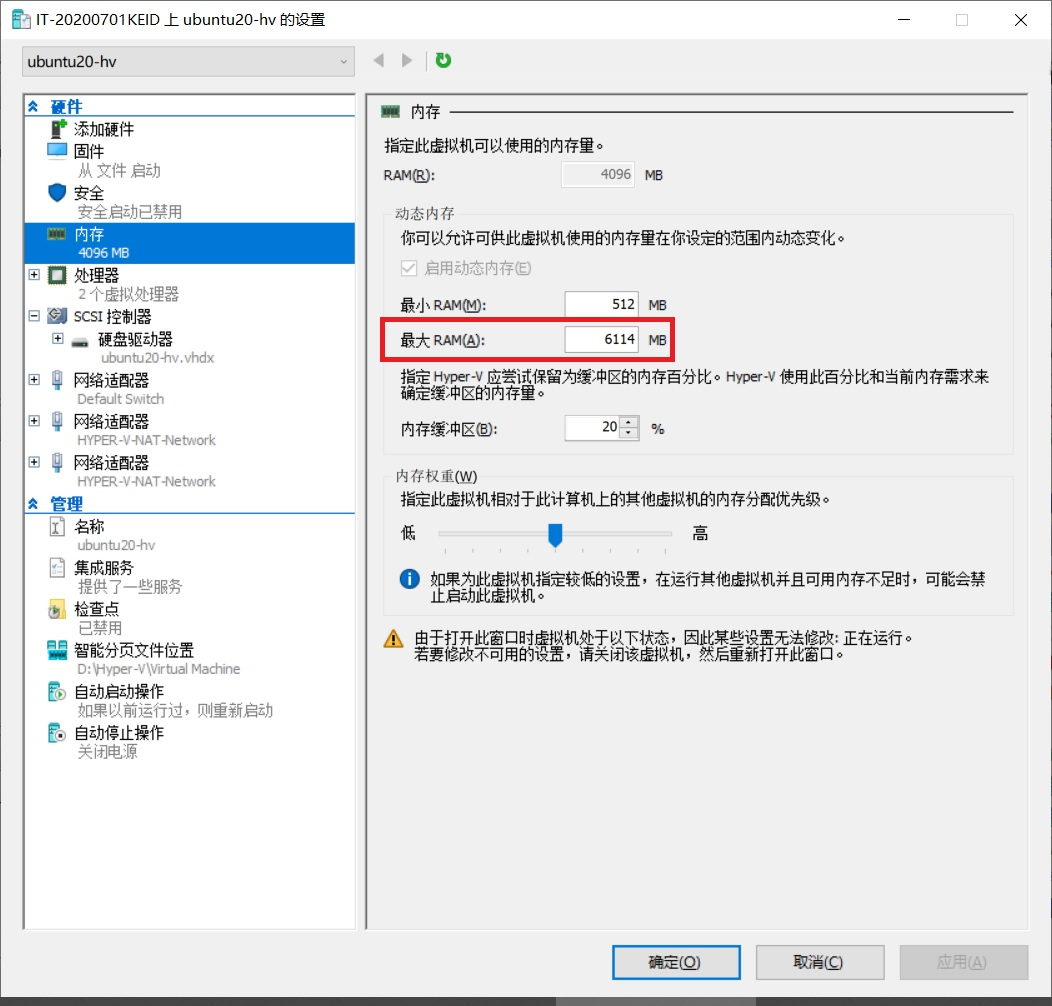
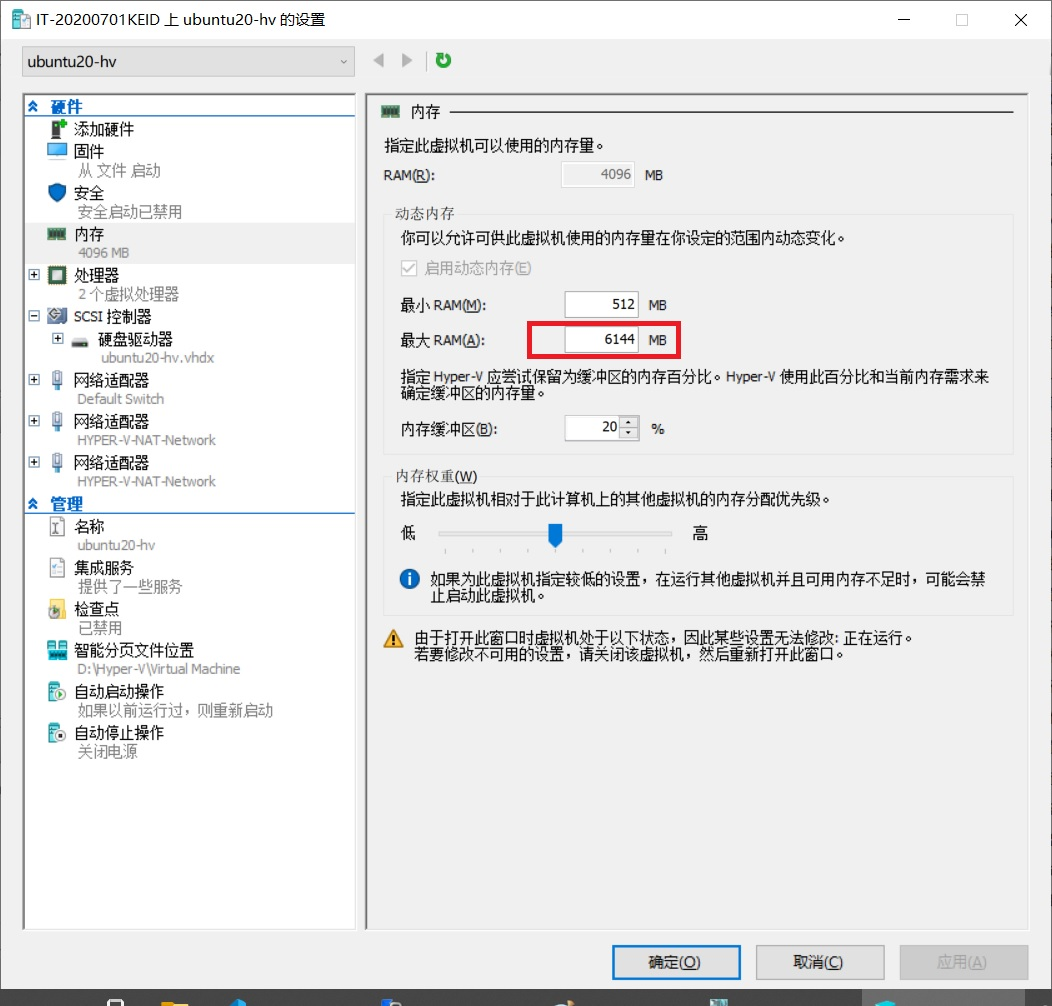
细化VPP的编译注意事项

Changed region(s): [[0.0, 0.9861, 1.0, 1.0], [0.0, 0.2157, 0.365, 0.2773], [0.365, 0.3082, 0.6692, 0.3698]]

diff --git a/README.md b/README.md
@@ -28,7 +28,7 @@
 
 第五步，虚拟机管理界面中选中**快速创建...**：在弹出的对话框中点击**更改安装源(I)...**，选择centos7_x86-64、centos8_x86-64、ubuntu18.04_x86-64/ubuntu20.04_x86-64镜像；取消**此虚拟机将运行Windows(启用Windows Secure Boot)**；点击**更多选项(R)**修改虚拟机的名称。上面三步做好后就可以点击**创建虚拟机(V)**按钮来创建虚拟机。这里需要说明一下，因为网络的原因，可能出现一直无法点击**创建虚拟机(V)**的情况，此时只需要断开windows 10的网络，重新创建虚拟机即可。
 
-第六步，创建成功的页面上点击**编辑设置(S)**。在弹出的界面中依次点击**添加硬件**->**网络适配器**->**添加(D)**，为虚拟机新建一个网卡，网卡的虚拟交换机设置为**HYPER-V-NAT-Network**；点击**检查点**，取消**启用检查点(E)**；点击**处理器**，设置处理器为物理CPU的一半(推荐)，点击**内存**，将**RAM(R)**设置为2048MB，动态内存区间设置为512M~2048M(推荐)；最后点击**确定**完成虚拟机的配置。
+第六步，创建成功的页面上点击**编辑设置(S)**。在弹出的界面中依次点击**添加硬件**->**网络适配器**->**添加(D)**，为虚拟机新建一个网卡，网卡的虚拟交换机设置为**HYPER-V-NAT-Network**；点击**检查点**，取消**启用检查点(E)**；点击**处理器**，设置处理器为物理CPU的一半(推荐)，点击**内存**，将**RAM(R)**设置为4096MB，动态内存区间设置为512M~4096M(推荐，编译vpp的虚拟机内存不能低于6144M)；最后点击**确定**完成虚拟机的配置。
 
 第七步，如果需要使用DPDK、F-STACK或者VPP，需要添加额外的虚拟网卡。此时需要在hyper-v主界面上点击虚拟机，单机右键选中**设置(E)**。在弹出的界面中依次点击**添加硬件**->**网络适配器**->**添加(D)**，添加新的虚拟网卡，网卡的虚拟交换机设置为**HYPER-V-NAT-Network**；最后点击**确定**完成虚拟机的配置。
 
@@ -40,11 +40,11 @@
 第二步，双击安装包进入安装界面，需要自己选择一下安装路径!，在安装过程中会提示新增通用串行总线，此时要点击**安装**。**注意：安装过程可能会暂时断网**！ 
 ![virtualbox_path_select](https://github.com/boboniu2004/vscode_project_maker/blob/master/picture/virtualbox_path_select.jpg) ![virtualbox_install_bus](https://github.com/boboniu2004/vscode_project_maker/blob/master/picture/virtualbox_install_bus.jpg)
 
-第三步，双击桌面**Oracle VM VirtualBox**，在弹出的界面中点击**新建**，此时会再次弹出界面，点击**专家模式**，依次设置虚拟机的类型、内存大小、硬盘(硬盘要设置为**动态分配**，且不低于**40G**)，然后创建虚拟机。**注意：虚拟机的存储路径最好不要放置在C盘，容易把分区占满**！！！**可以在创建虚拟机时选择存储路径，或者通过全局配置修改默认存储路径**。
+第三步，双击桌面**Oracle VM VirtualBox**，在弹出的界面中点击**新建**，此时会再次弹出界面，点击**专家模式**，依次设置虚拟机的类型、内存大小(编译vpp的虚拟机内存不能低于6144M)、硬盘(硬盘要设置为**动态分配**，且不低于**40G**)，然后创建虚拟机。**注意：虚拟机的存储路径最好不要放置在C盘，容易把分区占满**！！！**可以在创建虚拟机时选择存储路径，或者通过全局配置修改默认存储路径**。
 
 第四步，选中界面上新创建的虚拟机，右键进入设置界面，依次修改虚拟机的可用CPU(**如果要使用DPDK，则核心数不能小于2**)，开启第二网卡，并且网络类型设置为**host only**)，在**存储**分界面中设置接下来要安装的操作系统的ISO镜像，然后保存设置。
 
-第五步，如果需要使用DPDK、F-STACK或者VPP，需要添加额外的虚拟网卡。此时单机界面上的虚拟机，右键进入设置界面，添加新的虚拟网卡，然后保存设置。
+第五步，如果需要使用DPDK、f-stack或者vpp，需要添加额外的虚拟网卡。此时单机界面上的虚拟机，右键进入设置界面，添加新的虚拟网卡，然后保存设置。
 
 最后就可以可以选中虚拟机，然后点击**启动**开始安装linux。 ![virtualbox_create_vm](https://github.com/boboniu2004/vscode_project_maker/blob/master/picture/virtualbox_create_vm.jpg) ![virtualbox_create_vm_hd](https://github.com/boboniu2004/vscode_project_maker/blob/master/picture/virtualbox_create_vm_hd.jpg) ![virtualbox_set_vm_cpu](https://github.com/boboniu2004/vscode_project_maker/blob/master/picture/virtualbox_set_vm_cpu.jpg) ![virtualbox_set_vm_net](https://github.com/boboniu2004/vscode_project_maker/blob/master/picture/virtualbox_set_vm_net.jpg) ![virtualbox_set_vm_iso](https://github.com/boboniu2004/vscode_project_maker/blob/master/picture/virtualbox_set_vm_iso.jpg)
 
